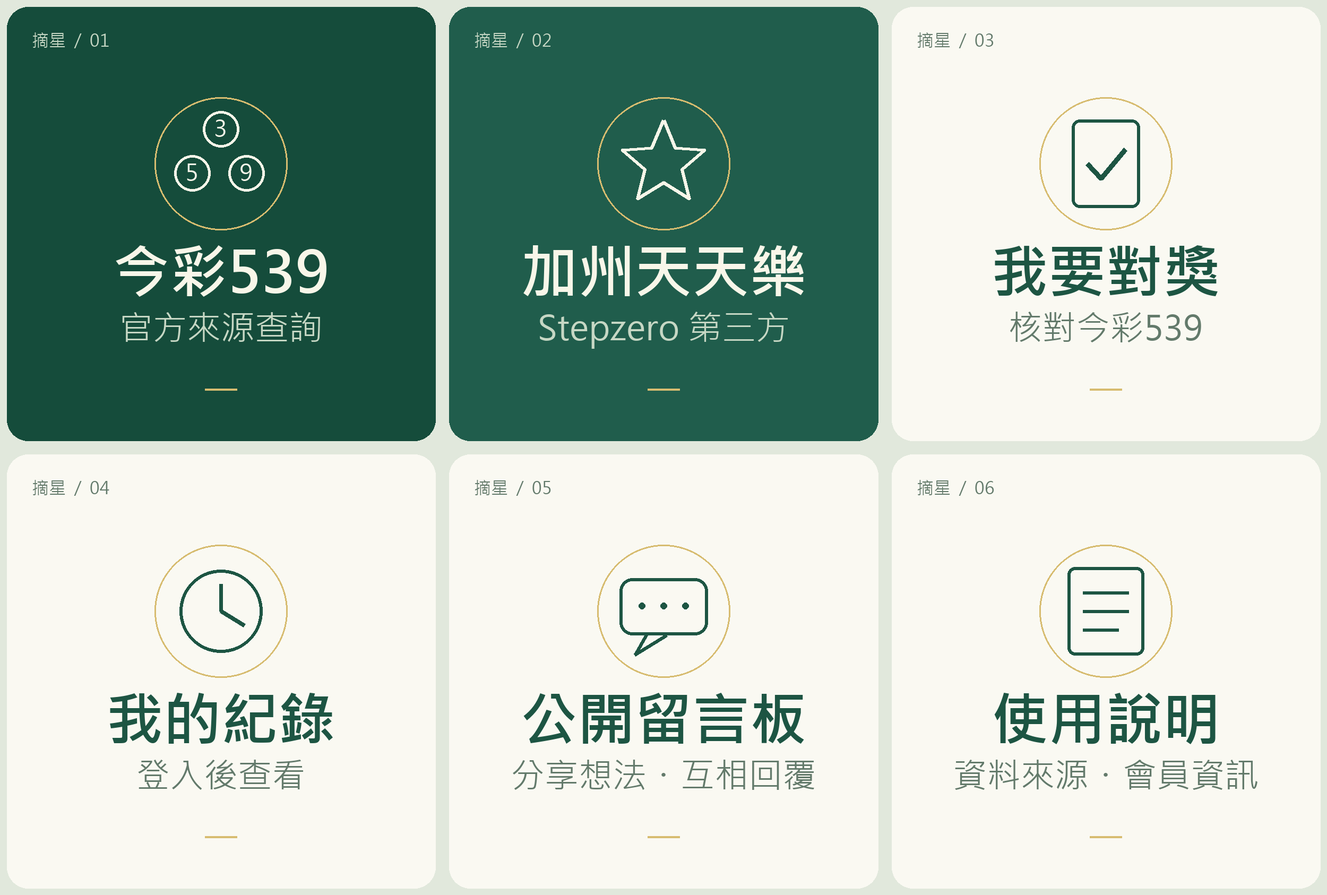
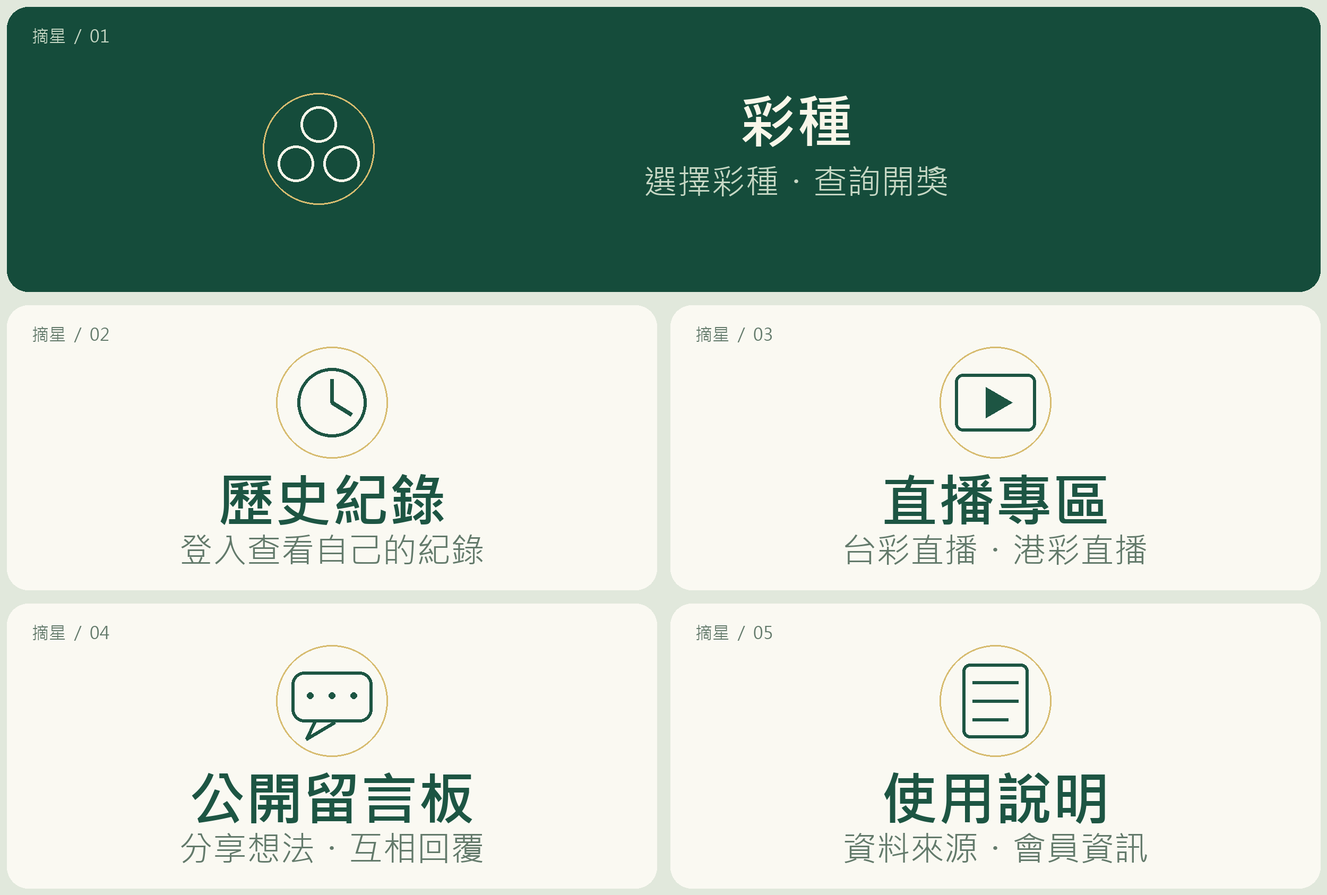
Simplify LINE menu and add Taiwan and Hong Kong live links

diff --git a/lotto-lab-web/public/line-entry.css b/lotto-lab-web/public/line-entry.css
@@ -1,1 +1,3 @@
-:root{font-family:system-ui,"Microsoft JhengHei",sans-serif;color:#183c34;background:#f7f6f0;color-scheme:light}*{box-sizing:border-box}body{margin:0}a{color:#17644c;text-underline-offset:5px}a:focus-visible{outline:3px solid #bf862d;outline-offset:5px}.shell{max-width:1080px;margin:auto;padding:24px 32px}header{display:flex;justify-content:space-between;align-items:center;border-bottom:1px solid #d6dfd3;gap:16px}.brand{font-size:26px;font-weight:780;letter-spacing:3px;text-decoration:none}.brand span{font-size:13px;letter-spacing:1px;font-weight:400;margin-left:12px}.badge{font-size:11px;letter-spacing:1px;color:#5d726a;white-space:nowrap}.intro{padding:32px 0 24px;max-width:720px}.eyebrow{font-size:12px;letter-spacing:2px;color:#607c6f;margin:0 0 16px}h1{font-size:clamp(34px,5vw,56px);font-weight:760;letter-spacing:-1.8px;line-height:1.2;margin:0 0 20px}h2{font-size:22px;margin:0 0 16px;letter-spacing:-.5px}h3{font-size:21px}.lead{font-size:17px;line-height:1.8;color:#4e665b}.draft{border-left:3px solid #bb903f;padding-left:12px;font-size:13px;color:#796138;margin:22px 0 0}.menu-preview{position:relative;overflow:hidden;border-radius:22px;box-shadow:0 18px 55px #173d3314;border:1px solid #d2ddce;margin-bottom:38px}.menu-preview img{display:block;width:100%;height:auto}.menu-hits{position:absolute;inset:0;display:grid;grid-template-columns:833fr 834fr 833fr;grid-template-rows:1fr 1fr}.menu-hits a{display:block;border:4px solid transparent;border-radius:18px}.menu-hits a:hover{background:#ffffff12;border-color:#d0b36a}.menu-hits a:focus-visible{outline:5px solid #d0b36a;outline-offset:-8px}.sr-only{position:absolute;width:1px;height:1px;padding:0;margin:-1px;overflow:hidden;clip:rect(0,0,0,0);white-space:nowrap;border:0}.columns{display:grid;grid-template-columns:1.2fr 1fr;gap:22px}.card{background:#fff;border:1px solid #dbe1d6;border-radius:18px;padding:30px;margin:0 0 22px;line-height:1.85}.card p{margin:12px 0}.card .eyebrow{margin:0 0 10px}.muted,.source-note{color:#67756c;font-size:13px;line-height:1.8}.source-note{max-width:750px}.downloads{display:grid;gap:10px;margin:20px 0}.downloads a{font-size:14px}.source-grid{display:grid;grid-template-columns:1fr 1fr;gap:36px}.tag{display:inline-block;color:#17634d;background:#e8f2e9;border-radius:20px;padding:3px 12px;font-size:12px}.tag.amber{color:#7e622c;background:#f9f1da}.button{display:inline-block;padding:12px 20px;background:#155b46;color:white;border-radius:9px;text-decoration:none;margin-top:8px}.help{max-width:960px}.help .intro{padding-bottom:36px}.help li{padding:7px 0}.help ol{padding-left:24px}.notice{border-left:3px solid #bc964e;padding-left:14px;color:#705b35}footer{display:flex;gap:22px;flex-wrap:wrap;border-top:1px solid #d6dfd3;font-size:13px;line-height:1.7}footer span{margin-right:auto}@media(max-width:640px){.shell{padding:20px}.brand span{display:none}.intro{padding:24px 0}.columns,.source-grid{grid-template-columns:1fr;gap:0}.source-grid>div+div{border-top:1px solid #dde4d8;margin-top:24px;padding-top:24px}.card{padding:22px}.menu-preview{border-radius:12px;margin-bottom:26px}.menu-hits a{border-radius:10px;border-width:2px}.badge{font-size:10px}.lead{font-size:15px}footer{gap:14px}.help ol{padding-left:20px}}
+:root{font-family:system-ui,"Microsoft JhengHei",sans-serif;color:#183c34;background:#f7f6f0;color-scheme:light}*{box-sizing:border-box}body{margin:0}a{color:#17644c;text-underline-offset:5px}a:focus-visible{outline:3px solid #bf862d;outline-offset:5px}.shell{max-width:1080px;margin:auto;padding:24px 32px}header{display:flex;justify-content:space-between;align-items:center;border-bottom:1px solid #d6dfd3;gap:16px}.brand{font-size:26px;font-weight:780;letter-spacing:3px;text-decoration:none}.brand span{font-size:13px;letter-spacing:1px;font-weight:400;margin-left:12px}.badge{font-size:11px;letter-spacing:1px;color:#5d726a;white-space:nowrap}.intro{padding:32px 0 24px;max-width:720px}.eyebrow{font-size:12px;letter-spacing:2px;color:#607c6f;margin:0 0 16px}h1{font-size:clamp(34px,5vw,56px);font-weight:760;letter-spacing:-1.8px;line-height:1.2;margin:0 0 20px}h2{font-size:22px;margin:0 0 16px;letter-spacing:-.5px}h3{font-size:21px}.lead{font-size:17px;line-height:1.8;color:#4e665b}.draft{border-left:3px solid #bb903f;padding-left:12px;font-size:13px;color:#796138;margin:22px 0 0}.menu-preview{position:relative;overflow:hidden;border-radius:22px;box-shadow:0 18px 55px #173d3314;border:1px solid #d2ddce;margin-bottom:38px}.menu-preview img{display:block;width:100%;height:auto}.menu-hits{position:absolute;inset:0;display:grid;grid-template-columns:1fr 1fr;grid-template-rows:repeat(3,1fr)}.menu-hits a{display:block;border:4px solid transparent;border-radius:18px}.menu-hits a:hover{background:#ffffff12;border-color:#d0b36a}.menu-hits a:focus-visible{outline:5px solid #d0b36a;outline-offset:-8px}.sr-only{position:absolute;width:1px;height:1px;padding:0;margin:-1px;overflow:hidden;clip:rect(0,0,0,0);white-space:nowrap;border:0}.columns{display:grid;grid-template-columns:1.2fr 1fr;gap:22px}.card{background:#fff;border:1px solid #dbe1d6;border-radius:18px;padding:30px;margin:0 0 22px;line-height:1.85}.card p{margin:12px 0}.card .eyebrow{margin:0 0 10px}.muted,.source-note{color:#67756c;font-size:13px;line-height:1.8}.source-note{max-width:750px}.downloads{display:grid;gap:10px;margin:20px 0}.downloads a{font-size:14px}.source-grid{display:grid;grid-template-columns:1fr 1fr;gap:36px}.tag{display:inline-block;color:#17634d;background:#e8f2e9;border-radius:20px;padding:3px 12px;font-size:12px}.tag.amber{color:#7e622c;background:#f9f1da}.button{display:inline-block;padding:12px 20px;background:#155b46;color:white;border-radius:9px;text-decoration:none;margin-top:8px}.help{max-width:960px}.help .intro{padding-bottom:36px}.help li{padding:7px 0}.help ol{padding-left:24px}.notice{border-left:3px solid #bc964e;padding-left:14px;color:#705b35}footer{display:flex;gap:22px;flex-wrap:wrap;border-top:1px solid #d6dfd3;font-size:13px;line-height:1.7}footer span{margin-right:auto}@media(max-width:640px){.shell{padding:20px}.brand span{display:none}.intro{padding:24px 0}.columns,.source-grid{grid-template-columns:1fr;gap:0}.source-grid>div+div{border-top:1px solid #dde4d8;margin-top:24px;padding-top:24px}.card{padding:22px}.menu-preview{border-radius:12px;margin-bottom:26px}.menu-hits a{border-radius:10px;border-width:2px}.badge{font-size:10px}.lead{font-size:15px}footer{gap:14px}.help ol{padding-left:20px}}
+
+.menu-hits a:first-child{grid-column:1/-1}.broadcasts{display:grid;grid-template-columns:1fr 1fr;gap:22px}.broadcasts h2{font-size:30px;margin-top:20px}.broadcasts .card{display:flex;flex-direction:column;align-items:flex-start}.broadcasts .button{margin-top:auto}@media(max-width:640px){.broadcasts{grid-template-columns:1fr;gap:0}}

diff --git a/lotto-lab-web/public/line-menu.html b/lotto-lab-web/public/line-menu.html
@@ -1,18 +1,17 @@
 <!doctype html>
 <html lang="zh-Hant"><head><meta charset="utf-8"><meta name="viewport" content="width=device-width,initial-scale=1"><meta name="robots" content="noindex,nofollow"><title>摘星｜LINE 功能選單預覽</title><link rel="stylesheet" href="/line-entry.css"></head>
 <body><header class="shell"><a class="brand" href="/start.html">摘星 <span>開獎與交流</span></a><span class="badge">STAGING 測試版</span></header>
-<main class="shell"><section class="intro"><p class="eyebrow">LINE 官方帳號 · 選單預覽</p><h1>想看的資訊，<br>從這裡開始。</h1><p class="lead">查開獎、核對號碼、留下自己的觀察。<br>六個入口，連到你需要的功能。</p><p class="draft">這是可點擊的網站預覽，尚未設定到 LINE 官方帳號。</p></section>
-<section aria-label="六格功能選單" class="menu-preview">
-<img src="/line-assets/rich-menu.png" width="2500" height="1686" alt="摘星六格圖文選單：今彩539、加州天天樂、我要對獎、我的紀錄、公開留言板、使用說明">
+<main class="shell"><section class="intro"><p class="eyebrow">LINE 官方帳號 · 選單預覽</p><h1>想看的資訊，<br>從這裡開始。</h1><p class="lead">查彩種、看歷史紀錄、追開獎直播。<br>五個入口，連到你需要的功能。</p><p class="draft">這是可點擊的網站預覽，尚未設定到 LINE 官方帳號。</p></section>
+<section aria-label="五項功能選單" class="menu-preview">
+<img src="/line-assets/rich-menu.png?v=5" width="2500" height="1686" alt="摘星五項圖文選單：彩種、歷史紀錄、直播專區、公開留言板、使用說明">
 <nav class="menu-hits" aria-label="選單入口">
-<a href="/start.html#results" aria-label="今彩539：官方來源查詢"><span class="sr-only">今彩539：官方來源查詢</span></a>
-<a href="/start.html#fantasy5" aria-label="加州天天樂：Stepzero第三方資料"><span class="sr-only">加州天天樂：Stepzero第三方資料</span></a>
-<a href="/member.html#check" aria-label="我要對獎：今彩539"><span class="sr-only">我要對獎：今彩539</span></a>
-<a href="/member.html#history" aria-label="我的紀錄：登入後查看"><span class="sr-only">我的紀錄：登入後查看</span></a>
+<a href="/start.html" aria-label="彩種：選擇彩種並查詢開獎"><span class="sr-only">彩種：選擇彩種並查詢開獎</span></a>
+<a href="/member.html#history" aria-label="歷史紀錄：登入查看自己的紀錄"><span class="sr-only">歷史紀錄：登入查看自己的紀錄</span></a>
+<a href="/live.html" aria-label="直播專區：台彩直播與港彩直播"><span class="sr-only">直播專區：台彩直播與港彩直播</span></a>
 <a href="/community.html" aria-label="公開留言板：分享與回覆"><span class="sr-only">公開留言板：分享與回覆</span></a>
 <a href="/help.html" aria-label="使用說明：來源與會員資訊"><span class="sr-only">使用說明：來源與會員資訊</span></a>
 </nav></section>
-<div class="columns"><section class="card"><p class="eyebrow">加入後的第一句話</p><h2>歡迎訊息草稿</h2><p class="welcome">歡迎來到摘星開獎查詢。點選下方選單，可查今彩539、加州天天樂、對獎與會員紀錄，也能進入公開留言板。今彩539採官方來源；加州天天樂使用Stepzero第三方資料，請核對頁面上的日期與來源。登入並設定公開暱稱後，可分享號碼、查看自己的投稿紀錄及參與留言。</p><p class="muted">文案尚未設定或發送。登入不會自動加入好友或訂閱推播。</p></section>
+<div class="columns"><section class="card"><p class="eyebrow">加入後的第一句話</p><h2>歡迎訊息草稿</h2><p class="welcome">歡迎來到摘星。從「彩種」查詢開獎，從「歷史紀錄」查看自己的投稿紀錄，也可進入「直播專區」選擇台彩直播或港彩直播，或到「公開留言板」交流。查詢時請核對彩種、開獎日期與資料來源；直播依節目安排及平台地區限制提供。登入並設定公開暱稱後即可參與留言。</p><p class="muted">文案尚未設定或發送。登入不會自動加入好友或訂閱推播。</p></section>
 <section class="card"><p class="eyebrow">準備好，才發布</p><h2>選單素材</h2><p>選單圖片及點擊設定已整理為草稿，可下載檢視。這些連結都前往目前的測試網站。</p><div class="downloads"><a href="/line-assets/rich-menu.png" download>下載選單圖片 PNG ↗</a><a href="/line-assets/rich-menu.json" download>下載點擊設定 JSON ↗</a><a href="/line-assets/welcome.txt" download>下載歡迎文案 TXT ↗</a></div><p class="muted">發布前還需完成 LINE 帳號核對、一般會員登入及手機內建瀏覽器驗收。</p></section></div>
 <p class="source-note">今彩539採台灣彩券官方來源；加州天天樂採Stepzero第三方資料，尚未經California Lottery官方核實。請以彩種所在地的開獎日期核對。</p></main>
 <footer class="shell"><span>摘星 · 先核對，再交流。</span><a href="/help.html">使用說明</a><a href="/start.html">回開獎查詢</a></footer></body></html>

diff --git a/lotto-lab-web/public/help.html b/lotto-lab-web/public/help.html
@@ -3,7 +3,7 @@
 <body><header class="shell"><a class="brand" href="/start.html">摘星 <span>開獎與交流</span></a><span class="badge">STAGING 測試版</span></header>
 <main class="shell help"><section class="intro"><p class="eyebrow">使用說明</p><h1>先看日期與來源，<br>再開始交流。</h1><p class="lead">開獎查詢可直接瀏覽。登入後，可使用自己的會員紀錄，並以公開暱稱參與討論。</p><a class="button" href="/line-menu.html">開啟功能選單 →</a></section>
 <section class="card" id="sources"><h2>兩種彩種，分清資料來源</h2><div class="source-grid"><div><span class="tag">官方來源</span><h3>今彩539</h3><p>顯示通過驗證的台灣彩券結果。請同時核對開獎日期與期別；最近一筆資料不一定就是今天。</p><a href="/start.html#results">查詢今彩539 →</a></div><div><span class="tag amber">第三方來源</span><h3>加州天天樂 Fantasy 5</h3><p>使用Stepzero第三方資料，以美國加州開獎日期顯示。格式與同來源歷史的一致性檢查，不代表California Lottery官方核實。</p><a href="/start.html#fantasy5">查詢加州天天樂 →</a></div></div><p class="muted">網頁自動刷新不等於上游即時發布。資料過期或無法驗證時，頁面會顯示等待或錯誤狀態。實際兌獎以各彩券官方公告為準。</p></section>
-<section class="card" id="membership"><h2>登入、對獎與我的紀錄</h2><ol><li>今彩539對獎可免登入使用；請自行確認結果是你的投注期別。</li><li>點選 LINE 登入，成功後回到原本的功能頁；取消或逾時可留在原頁重試。</li><li>想投稿或回覆時，先設定公開暱稱並確認公開規則。系統不自動公開你的 LINE 名稱或照片。</li><li>我的逐期紀錄僅供本人登入查看；其中原本公開的選號投稿、暱稱及社群統計仍依其公開規則顯示。登入狀態保留一天，可到留言板登出。</li></ol><p>會員統計僅反映已核對的投稿樣本，不代表未來中獎率或預測能力。</p><p class="notice">目前為測試階段，LINE 登入仍限已獲測試權限的帳號。一般會員開放時間另行公告。</p><a href="/member.html#history">查看我的紀錄 →</a></section>
+<section class="card" id="membership"><h2>登入、對獎與歷史紀錄</h2><ol><li>今彩539對獎可免登入使用；請自行確認結果是你的投注期別。</li><li>點選 LINE 登入，成功後回到原本的功能頁；取消或逾時可留在原頁重試。</li><li>想投稿或回覆時，先設定公開暱稱並確認公開規則。系統不自動公開你的 LINE 名稱或照片。</li><li>我的逐期紀錄僅供本人登入查看；其中原本公開的選號投稿、暱稱及社群統計仍依其公開規則顯示。登入狀態保留一天，可到留言板登出。</li></ol><p>會員統計僅反映已核對的投稿樣本，不代表未來中獎率或預測能力。</p><p class="notice">目前為測試階段，LINE 登入仍限已獲測試權限的帳號。一般會員開放時間另行公告。</p><a href="/member.html#history">查看歷史紀錄 →</a></section>
 <section class="card" id="discussion"><h2>公開留言與個人資料</h2><p>留言板上的暱稱、發文與回覆會讓所有訪客看見。請勿張貼 LINE ID、電話、金鑰或其他個人資料。不當內容可檢舉，管理員可隱藏及暫停帳號發言。</p><p>網站公開留言板不匯入舊 LINE 私人討論。號碼分享有獨立的日期與投稿規則，請在送出前閱讀該頁說明。</p><p>目前尚未開放網站資料刪除申請入口；正式公開前會補齊聯絡及申請方式，請勿將個資貼在留言板作為申請。</p><a href="/community.html">進入公開留言板 →</a></section>
 <section class="card" id="notifications"><h2>查詢與通知是兩件事</h2><p>登入不會自動加入 LINE 好友，也不會自動同意接收開獎推播。目前通知僅供既有獲准的今彩539管理員測試使用；一般會員推播及天天樂通知尚未開放。</p><p>天天樂可透過功能選單開啟網站查看第三方結果。目前不在 LINE 直接回覆或推播天天樂號碼。</p></section>
 </main><footer class="shell"><span>摘星 · 先核對，再交流。</span><a href="/line-menu.html">功能選單</a><a href="/start.html">開獎查詢</a></footer></body></html>

diff --git a/lotto-lab-web/public/start.html b/lotto-lab-web/public/start.html
@@ -8,7 +8,7 @@
 </head>
 <body>
 <header><a class="brand" href="/start.html">摘星 <span>開獎查詢</span></a><span class="preview">測試版</span></header>
-<main><p><a href="/member.html">對獎、我的紀錄與命中統計 →</a></p>
+<main><p><a href="/member.html">對獎、歷史紀錄與命中統計 →</a></p>
 <section class="hero"><p class="eyebrow">先查資料，再做判斷</p><h1>開獎結果，<br>一眼看清楚。</h1><p>日期、獎號與資料來源放在一起。今彩 539 採官方來源；加州天天樂提供清楚標示的第三方結果。</p><a class="primary" href="#results">查詢今彩 539 <span aria-hidden="true">↘</span></a> <a class="source" href="#fantasy5">查詢加州天天樂 →</a></section>
 <section class="results" id="results" aria-labelledby="result-title"><div class="heading"><div><p class="eyebrow">官方來源查詢</p><h2 id="result-title">今彩 539</h2></div><button id="retry" type="button">重新查詢</button></div><p id="status" role="status" aria-live="polite">正在查詢官方資料…</p><div id="draw" hidden><p class="meta"><span id="date"></span><span id="period"></span></p><ol id="numbers" aria-label="開獎號碼"></ol><p id="fetched" class="muted"></p><a class="source" href="https://www.taiwanlottery.com/" target="_blank" rel="noopener noreferrer">前往台灣彩券核對 ↗</a></div><p class="note">本頁每30秒自動查詢。台彩20:30開獎、網站21:30公告獎號；本站取得通過驗證的資料即顯示。請核對開獎日期；官方最近一筆資料不一定是今天。實際兌獎以台灣彩券公告為準。</p></section>
 <section class="results fantasy5" id="fantasy5" aria-labelledby="ca-title"><div class="heading"><div><p class="eyebrow">Stepzero · 第三方資料</p><h2 id="ca-title">加州天天樂 <small>Fantasy 5</small></h2></div><button id="ca-retry" type="button">重新查詢天天樂</button></div><p id="ca-status" role="status" aria-live="polite">正在查詢第三方資料…</p><div id="ca-draw" hidden><p class="meta"><span id="ca-date"></span><span class="tag">尚未經 California Lottery 官方核實</span></p><ol id="ca-numbers" aria-label="加州天天樂開獎號碼"></ol><p id="ca-fetched" class="muted"></p><a class="source" href="https://lotteryanalytics.app/api-docs" target="_blank" rel="noopener noreferrer">資料來源：Stepzero API ↗</a> · <a class="source" href="https://www.calottery.com/draw-games/fantasy-5" target="_blank" rel="noopener noreferrer">前往 California Lottery 核對 ↗</a></div><p class="note">開獎日期依美國加州時間顯示。本頁每60秒查詢；供應商未提供發布時間，無法保證開獎後即時更新。第三方資料不作為兌獎依據，實際結果以 California Lottery 公告為準。</p></section>

diff --git a/lotto-lab-web/public/live.html b/lotto-lab-web/public/live.html
@@ -1,0 +1,9 @@
+<!doctype html>
+<html lang="zh-Hant"><head><meta charset="utf-8"><meta name="viewport" content="width=device-width,initial-scale=1"><meta name="robots" content="noindex,nofollow"><title>摘星｜直播專區</title><link rel="stylesheet" href="/line-entry.css"></head>
+<body><header class="shell"><a class="brand" href="/line-menu.html">摘星 <span>開獎與交流</span></a><span class="badge">STAGING 測試版</span></header>
+<main class="shell"><section class="intro"><p class="eyebrow">跟著節目，看開獎</p><h1>直播專區</h1><p class="lead">選擇台彩或港彩，直接前往轉播平台。</p></section>
+<div class="broadcasts"><section class="card"><span class="tag">全民 i 彩券 · YouTube</span><h2>台彩直播</h2><p>開啟節目的直播頁，選擇當天場次觀看。非直播時段可查看已播出的開獎影片。</p><a class="button" href="https://www.youtube.com/@48ilottery48/streams" target="_blank" rel="noopener noreferrer">前往台彩直播 ↗</a><p class="muted">請核對影片日期及「直播中」狀態，避免把回放當成即時開獎。</p></section>
+<section class="card"><span class="tag">TVB Plus · myTV SUPER</span><h2>港彩直播</h2><p>直接開啟 TVB Plus 官方直播頻道。六合彩依當日節目表播出，其餘時段為該頻道其他節目。</p><a class="button" href="https://www.mytvsuper.com/tc/live/82/TVB-Plus/" target="_blank" rel="noopener noreferrer">前往港彩直播 ↗</a><p class="notice">此平台設有香港／澳門地區限制；其他地區可能無法播放。</p><a href="https://www.mytvsuper.com/tc/epg/82/TVB-Plus/" target="_blank" rel="noopener noreferrer">查看 TVB Plus 節目表 ↗</a></section></div>
+<p class="source-note">直播由外部平台提供，播出日期、時間及收看限制以轉播方公告為準。觀看時請核對節目日期。</p>
+<p class="source-note">來源：<a href="https://www.taiwanlottery.com/customer_service/faq/" target="_blank" rel="noopener noreferrer">台彩轉播說明</a> · <a href="https://campaign.hkjc.com/ch/jctv/" target="_blank" rel="noopener noreferrer">馬會直播服務說明</a></p></main>
+<footer class="shell"><span>摘星 · 開獎與交流</span><a href="/line-menu.html">功能選單</a><a href="/start.html">彩種</a><a href="/help.html">使用說明</a></footer></body></html>

diff --git a/lotto-lab-web/public/member.html b/lotto-lab-web/public/member.html
@@ -4,7 +4,7 @@
 <section class="panel"><h1>今彩539對獎</h1><p>依官方最近一期比對命中數，不代辦獎金兌領。請核對日期與期別。</p><p>官方20:30開獎，網站獎號於21:30公告。資料公布後自動更新，等待期間不把上一期當作今天。</p>
 <form id="check"><label>輸入5個號碼，以空格或逗號分隔<input id="ticket" required placeholder="例如：1 8 10 19 21"></label><button>核對官方最近一期</button></form><p id="result" role="status"></p></section>
 <p id="message" role="status"></p><p id="identity"></p><a id="login" href="/auth/line/start?next=/member.html">LINE登入</a>
-<section class="panel"><h2>我的逐期分享與命中紀錄</h2><p>只有經官方來源核對的期別才顯示命中；尚無結果的紀錄顯示待核對。記錄包含被隱藏的個人投稿。</p><button id="refresh">更新紀錄</button><div id="history"></div><button id="more" hidden>更早紀錄</button></section>
+<section class="panel"><h2>歷史紀錄</h2><p>這裡是你自己的逐期分享與命中紀錄。只有經官方來源核對的期別才顯示命中；尚無結果的紀錄顯示待核對。記錄包含被隱藏的個人投稿。</p><button id="refresh">更新紀錄</button><div id="history"></div><button id="more" hidden>更早紀錄</button></section>
 <section class="panel"><h2>會員命中統計</h2><p>依已核對投稿的平均命中數排序，最多100位；顯示樣本期數，少量樣本不代表能力或未來中獎率。隱藏投稿仍納入，封禁帳號不列出。</p><div id="ranking"></div></section>
 <section id="admin" class="panel" hidden><h2>管理員：帳號發言管理</h2><form id="ban"><label>公開暱稱<input name="alias" required></label><label>操作<select name="active"><option value="true">暫停發言</option><option value="false">解除封禁</option></select></label><label>理由<textarea name="reason" required maxlength="300"></textarea></label><button>儲存</button></form><div id="bans"></div></section>
 </main><footer>摘星 · 官方資料與會員分享分開呈現。實際兌獎以台灣彩券公告為準。 · <a href="/help.html">使用說明</a> · <a href="/line-menu.html">功能選單</a></footer></body></html>

diff --git a/lotto-lab-web/public/numbers.html b/lotto-lab-web/public/numbers.html
@@ -1,6 +1,6 @@
 <!doctype html><html lang="zh-Hant"><head><meta charset="utf-8"><meta name="viewport" content="width=device-width, initial-scale=1"><meta name="robots" content="noindex,nofollow"><title>摘星｜號碼交流所</title><link rel="stylesheet" href="/community.css"><script src="/community.js" defer></script><script src="/login-navigation.js" defer></script></head><body>
 <header><a href="/start.html">摘星 <span>號碼交流所</span></a><span>STAGING · 測試版</span></header>
-<main><p><a href="/member.html">對獎、我的紀錄與命中統計 →</a></p><section class="hero"><p class="eyebrow">分享觀點，留下紀錄</p><h1>每一組號碼，<br>都有你的想法。</h1><p>今彩 539 的選號分享、社群分布與討論。先看理由，再看號碼。</p><p class="notice">這裡是會員選號，不是官方獎號或中獎保證。熱門度不代表中獎率。</p></section>
+<main><p><a href="/member.html">對獎、歷史紀錄與命中統計 →</a></p><section class="hero"><p class="eyebrow">分享觀點，留下紀錄</p><h1>每一組號碼，<br>都有你的想法。</h1><p>今彩 539 的選號分享、社群分布與討論。先看理由，再看號碼。</p><p class="notice">這裡是會員選號，不是官方獎號或中獎保證。熱門度不代表中獎率。</p></section>
 <p><a href="/community.html">← 回公開留言板</a></p><div class="toolbar"><label>開獎日期 <input id="day" type="date" required></label><button id="refresh">查看</button><a href="/start.html#results">查官方結果 ↗</a></div>
 <p id="message" role="status" aria-live="polite"></p>
 <div class="layout"><section><div class="section-title"><h2>當期共識</h2><span id="sample">載入中</span></div><p>每位會員、每個日期一組。修改不增加票數。</p><div id="heatmap" class="heatmap" aria-label="各號碼投稿份數"></div><p id="pairs"></p><p id="odd"></p>

diff --git a/lotto-lab-web/public/community.html b/lotto-lab-web/public/community.html
@@ -1,5 +1,5 @@
 <!doctype html><html lang="zh-Hant"><head><meta charset="utf-8"><meta name="viewport" content="width=device-width, initial-scale=1"><meta name="robots" content="noindex,nofollow"><title>摘星｜大家的留言板</title><link rel="stylesheet" href="/community.css"><script src="/board.js" defer></script><script src="/login-navigation.js" defer></script></head><body>
-<header><a href="/start.html">摘星 <span>大家的留言板</span></a><span>STAGING · 測試版</span></header><main><p><a href="/member.html">對獎、我的紀錄與命中統計 →</a></p>
+<header><a href="/start.html">摘星 <span>大家的留言板</span></a><span>STAGING · 測試版</span></header><main><p><a href="/member.html">對獎、歷史紀錄與命中統計 →</a></p>
 <section class="hero"><p class="eyebrow">有想法，就來聊聊</p><h1>大家的留言板。<br>分享，從一句話開始。</h1><p>聊選號、聊觀察、交流心得，或向大家提個問題。這裡不限定開獎日期，也不需要先選五個號碼。</p><p class="notice">會員分享不代表官方結果或中獎保證。歡迎不同觀點，請尊重每一位發言者。</p></section>
 <nav class="toolbar" aria-label="交流區功能"><a href="/community.html" aria-current="page">公開留言板</a><a href="/numbers.html">號碼分享與統計 →</a><a href="/start.html">官方開獎查詢 ↗</a></nav>
 <p id="message" role="status" aria-live="polite"></p><div class="layout"><section>

diff --git a/lotto-lab-web/scripts/build_line_menu.py b/lotto-lab-web/scripts/build_line_menu.py
@@ -4,20 +4,18 @@ Requires Pillow for local authoring only. Pass --font/--bold-font for other OSes
 """
 import argparse
 import json
-import math
 from pathlib import Path
 from PIL import Image, ImageDraw, ImageFont
 
 ORIGIN='https://lotto-lab-candidate-a-staging.onrender.com'
 ITEMS=[
-    ('今彩539','官方來源查詢','/start.html#results'),
-    ('加州天天樂','Stepzero 第三方','/start.html#fantasy5'),
-    ('我要對獎','核對今彩539','/member.html#check'),
-    ('我的紀錄','登入後查看','/member.html#history'),
-    ('公開留言板','分享想法・互相回覆','/community.html'),
-    ('使用說明','資料來源・會員資訊','/help.html'),
+    ('彩種','選擇彩種・查詢開獎','/start.html',(0,0,2500,562)),
+    ('歷史紀錄','登入查看自己的紀錄','/member.html#history',(0,562,1250,562)),
+    ('直播專區','台彩直播・港彩直播','/live.html',(1250,562,1250,562)),
+    ('公開留言板','分享想法・互相回覆','/community.html',(0,1124,1250,562)),
+    ('使用說明','資料來源・會員資訊','/help.html',(1250,1124,1250,562)),
 ]
-WELCOME='歡迎來到摘星開獎查詢。點選下方選單，可查今彩539、加州天天樂、對獎與會員紀錄，也能進入公開留言板。今彩539採官方來源；加州天天樂使用Stepzero第三方資料，請核對頁面上的日期與來源。登入並設定公開暱稱後，可分享號碼、查看自己的投稿紀錄及參與留言。'
+WELCOME='歡迎來到摘星。從「彩種」查詢開獎，從「歷史紀錄」查看自己的投稿紀錄，也可進入「直播專區」選擇台彩直播或港彩直播，或到「公開留言板」交流。查詢時請核對彩種、開獎日期與資料來源；直播依節目安排及平台地區限制提供。登入並設定公開暱稱後即可參與留言。'
 
 
 def build(font,bold_font):
@@ -26,49 +24,41 @@ def build(font,bold_font):
     image=Image.new('RGB',(2500,1686),'#e1e8dc');draw=ImageDraw.Draw(image)
     titlefont=ImageFont.truetype(str(bold_font),108)
     smallfont=ImageFont.truetype(str(font),64)
-    iconfont=ImageFont.truetype(str(font),43)
     numberfont=ImageFont.truetype(str(font),32)
-    areas=[];xs=[0,833,1667,2500]
-    for index,(title,subtitle,path) in enumerate(ITEMS):
-        col=index%3;row=index//3;x0,x1=xs[col],xs[col+1];y=row*843
-        dark=index in (0,1)
-        bg=('#154c3b' if index==0 else '#205d4c') if dark else '#faf9f2'
+    areas=[]
+    for index,(title,subtitle,path,bounds) in enumerate(ITEMS):
+        x0,y,width,height=bounds;x1=x0+width
+        dark=index==0
+        bg='#154c3b' if dark else '#faf9f2'
         ink='#f8f6e9' if dark else '#1d5543';sub='#c6d7c4' if dark else '#637a6b';accent='#d7bc70'
-        draw.rounded_rectangle((x0+13,y+13,x1-13,y+830),radius=40,fill=bg)
-        draw.text((x0+60,y+53),f'摘星  /  0{index+1}',font=numberfont,fill=sub)
-        cx=(x0+x1)//2;cy=y+308
-        draw.ellipse((cx-125,cy-125,cx+125,cy+125),outline=accent,width=3)
+        draw.rounded_rectangle((x0+13,y+13,x1-13,y+height-13),radius=40,fill=bg)
+        draw.text((x0+60,y+45),f'摘星  /  0{index+1}',font=numberfont,fill=sub)
+        cx=600 if dark else (x0+x1)//2;cy=y+(280 if dark else 196)
+        draw.ellipse((cx-105,cy-105,cx+105,cy+105),outline=accent,width=3)
         if index==0:
-            for dx,dy,label in [(-54,18,'5'),(48,18,'9'),(0,-65,'3')]:
+            for dx,dy in [(-43,28),(43,28),(0,-46)]:
                 draw.ellipse((cx+dx-34,cy+dy-34,cx+dx+34,cy+dy+34),outline=ink,width=5)
-                draw.text((cx+dx,cy+dy-3),label,font=iconfont,anchor='mm',fill=ink)
         elif index==1:
-            pts=[]
-            for n in range(10):
-                angle=-math.pi/2+n*math.pi/5;r=82 if n%2==0 else 36
-                pts.append((cx+math.cos(angle)*r,cy+math.sin(angle)*r))
-            draw.line(pts+[pts[0]],fill=ink,width=6,joint='curve')
+            draw.ellipse((cx-65,cy-65,cx+65,cy+65),outline=ink,width=6)
+            draw.line([(cx,cy-44),(cx,cy),(cx+37,cy+23)],fill=ink,width=7,joint='curve')
         elif index==2:
-            draw.rounded_rectangle((cx-64,cy-83,cx+64,cy+83),radius=15,outline=ink,width=6)
-            draw.line([(cx-35,cy),(cx-9,cy+28),(cx+37,cy-27)],fill=ink,width=9,joint='curve')
+            draw.rounded_rectangle((cx-76,cy-54,cx+76,cy+54),radius=15,outline=ink,width=6)
+            draw.polygon([(cx-18,cy-29),(cx-18,cy+29),(cx+32,cy)],fill=ink)
         elif index==3:
-            draw.ellipse((cx-78,cy-78,cx+78,cy+78),outline=ink,width=6)
-            draw.line([(cx,cy-51),(cx,cy),(cx+44,cy+27)],fill=ink,width=7,joint='curve')
-        elif index==4:
-            draw.rounded_rectangle((cx-83,cy-62,cx+83,cy+45),radius=24,outline=ink,width=6)
-            draw.line([(cx-33,cy+45),(cx-54,cy+82),(cx+6,cy+45)],fill=ink,width=6)
+            draw.rounded_rectangle((cx-76,cy-55,cx+76,cy+40),radius=24,outline=ink,width=6)
+            draw.line([(cx-33,cy+40),(cx-48,cy+72),(cx+6,cy+40)],fill=ink,width=6)
             for dx in [-41,0,41]:draw.ellipse((cx+dx-6,cy-16,cx+dx+6,cy-4),fill=ink)
         else:
-            draw.rounded_rectangle((cx-72,cy-83,cx+72,cy+83),radius=14,outline=ink,width=6)
+            draw.rounded_rectangle((cx-62,cy-70,cx+62,cy+70),radius=14,outline=ink,width=6)
             for dy,w in [(-35,43),(0,43),(35,24)]:draw.line((cx-43,cy+dy,cx+w,cy+dy),fill=ink,width=6)
-        draw.text((cx,y+507),title,font=titlefont,fill=ink,anchor='mm')
-        draw.text((cx,y+615),subtitle,font=smallfont,fill=sub,anchor='mm')
-        draw.line((cx-30,y+733,cx+30,y+733),fill=accent,width=4)
-        areas.append({'bounds':{'x':x0,'y':y,'width':x1-x0,'height':843},
+        text_x=1500 if dark else cx
+        draw.text((text_x,y+(225 if dark else 376)),title,font=titlefont,fill=ink,anchor='mm')
+        draw.text((text_x,y+(340 if dark else 472)),subtitle,font=smallfont,fill=sub,anchor='mm')
+        areas.append({'bounds':{'x':x0,'y':y,'width':width,'height':height},
             'action':{'type':'uri','label':title,'uri':ORIGIN+path}})
     image.save(out/'rich-menu.png',optimize=True)
     payload={'size':{'width':2500,'height':1686},'selected':False,
-        'name':'摘星 Staging 六格選單草稿','chatBarText':'開獎與會員功能','areas':areas}
+        'name':'摘星 Staging 五項選單草稿','chatBarText':'彩種・紀錄・直播','areas':areas}
     (out/'rich-menu.json').write_text(json.dumps(payload,ensure_ascii=False,indent=2)+'\n',encoding='utf-8')
     (out/'welcome.txt').write_text(WELCOME+'\n',encoding='utf-8')
     assert (out/'rich-menu.png').stat().st_size<1_000_000

diff --git a/LINE_OFFICIAL_ACCOUNT_PROGRESS.md b/LINE_OFFICIAL_ACCOUNT_PROGRESS.md
@@ -2,6 +2,22 @@
 
 2026-09-28：使用者要求立即執行並持續接續。既有 `staging-line` heartbeat 已改為 ACTIVE，每兩小時接續本任務；無實質變化不通知。發布限制不因排程啟用而解除。
 
+## 2026-09-28 選單調整（依使用者最新要求）
+
+此節優先於下方第一批六格設計。主選單改為五項：彩種、歷史紀錄、直播專區、公開留言板、使用說明。
+
+- 彩種合併為一格，連 `/start.html`；移除主選單的「我要對獎」。
+- 「我的紀錄」改為「歷史紀錄」，仍連本人會員紀錄 `/member.html#history`；資料內容與權限不變。
+- 直播專區連 `/live.html`，提供「台彩直播」「港彩直播」兩個可直接開啟外部平台的入口。
+- 台彩：`https://www.youtube.com/@48ilottery48/streams`。台彩 FAQ 指向三立全民 i 彩券轉播，三立節目頁／官方頻道交叉核對；瀏覽器直播頁已列出 2026-09-28 當日開獎回放。使用頻道直播頁，不固定連舊影片。
+- 港彩：`https://www.mytvsuper.com/tc/live/82/TVB-Plus/`。從 myTV SUPER 官方 TVB Plus 節目表的「觀看直播」連結取得；官方直播頁標示 GEO_BLOCK／香港澳門地區限制。網站已明示限制，未聲稱台灣可播放或目前正在播六合彩。
+- 香港馬會官方公告確認六合彩攪珠由 TVB Plus 82 台轉播。來源：https://member.hkjc.com/member/chinese/about-membership/news-and-announcements/index.aspx/ 。沒有繞過地區限制、安裝 APP 或登入直播平台。
+- 原三立 live.setn.com 直播頁的瀏覽操作遭網站安全政策阻擋，已停止；改用獨立且可正常檢視的全民 i 彩券官方 YouTube 頻道，沒有透過代理或其他介面存取受阻頁面。
+- 2500×1686 PNG、五區 URI 設定、預覽點擊區與歡迎文案同步更新。
+- 本機桌面與390px手機尺寸瀏覽器已驗收新版選單及直播頁；沒有水平溢出。「歷史紀錄」可點到 `/member.html#history`，登入href保留該目的位置。
+- 本次為靜態導覽調整：檢查五區完整覆蓋且無重疊、目的頁與錨點存在、PNG 尺寸與文案同步；不新增模仿靜態文案的測試，不更改驗證或通知程式。
+- 部署前基線：本機／遠端／Live a86a93a，dep-dat3sim0tbcc739pclfg。新部署結果以根目錄 `LINE_OFFICIAL_ACCOUNT_STAGING_CHECK.md` 最新段落為準；該文件是本機交接記錄，不為文件更新重新部署。
+
 ## 第一批已實作
 
 - `/line-menu.html`：六格可點擊的選單預覽、歡迎訊息草稿與素材下載；明示尚未設定到 LINE 官方帳號。
@@ -23,7 +39,7 @@
 - 390px 手機尺寸的選單圖片、中文字級及使用說明完成視覺檢查，無水平溢出。
 - 上述登入瀏覽器測試使用隔離本機 OAuth 模擬，不向 LINE 傳送、不使用真實帳號或密鑰、不向 Staging 發測試貼文。
 
-部署與最新線上驗收以本機 `.git/line-entry-staging-live.md` 為準；沒有該文件或沒有 Live 證據時，不能視為部署成功。先核對遠端及 Render 的實際 commit，不重複部署。
+部署與最新線上驗收以根目錄 `LINE_OFFICIAL_ACCOUNT_STAGING_CHECK.md` 為準；沒有該文件或沒有 Live 證據時，不能視為部署成功。先核對遠端及 Render 的實際 commit，不重複部署。
 
 ## 後續待完成
 

diff --git a/LINE_OFFICIAL_ACCOUNT_NEXT_STEPS.md b/LINE_OFFICIAL_ACCOUNT_NEXT_STEPS.md
@@ -4,6 +4,10 @@
 
 目標：使用者從 LINE 官方帳號即可找到開獎查詢、對獎、自己的紀錄與公開留言板，登入後接回原本操作。
 
+## 2026-09-28 最新選單決定
+
+使用者要求合併彩種、取消獨立對獎入口、改名歷史紀錄並加入台彩／港彩直播。新版主選單為「彩種、歷史紀錄、直播專區、公開留言板、使用說明」五項；詳見進度文件最新段落。下方六格為早期規劃，不得回復套用。LINE 實際發布仍待原定核對及明確發布指示。
+
 ## 已有基礎與本次發現
 
 - 本機與遠端指定分支均為 `7e6a764c4c0c25ef66e2cb36a9f83544183f1f19`。最近實測的 Staging Live 部署為 `dep-dasts1jbc2fs73abj4t0`，此次規劃不需重新部署。
